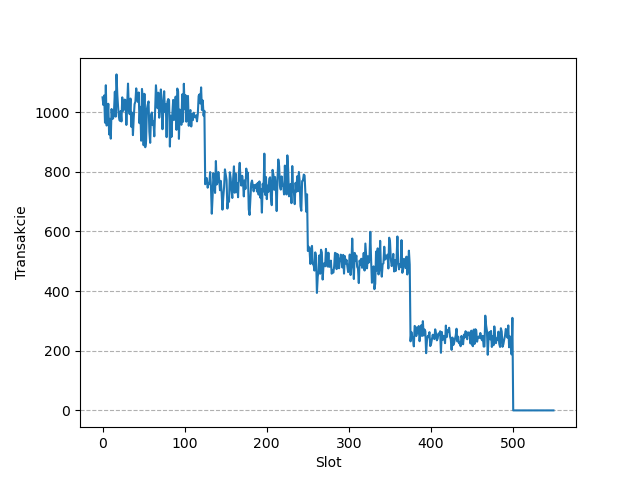
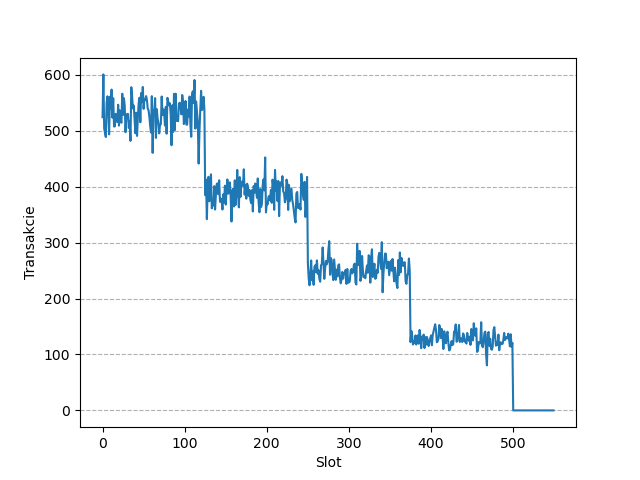
Fix harmony bug with uniformStakeDistribution

diff --git a/simulator-client/scenarios/harmony/scenario01.py b/simulator-client/scenarios/harmony/scenario01.py
@@ -35,6 +35,7 @@ class Scenario01(Scenario):
                 "lambda": token_lambda,
                 "ddosAttack": False,
                 "mongoServerAddress": self.mongoserver,
+                "uniformStakeDistribution": True
             }
             logger.logging.info(f'Start simulate Harmony with parameters: {json.dumps(parameters, sort_keys=False, indent=4)}')
             response = requests.post(self.harmony_endpoint, json=parameters)
@@ -57,4 +58,4 @@ class Scenario01(Scenario):
         sns.heatmap(self.spearman, vmin=-1, vmax=1)
         plt.xticks(rotation=70)
         fig.tight_layout()
-        self.save_plot('shard-correlation')
+        self.save_plot('harmony-scenario01')

diff --git a/simulator-client/scenarios/harmony/scenario02.py b/simulator-client/scenarios/harmony/scenario02.py
@@ -35,6 +35,7 @@ class Scenario02(Scenario):
                 "lambda": 600,
                 "ddosAttack": False,
                 "mongoServerAddress": self.mongoserver,
+                "uniformStakeDistribution": True
             }
             logger.logging.info(
                 f'Start simulate Harmony with parameters: {json.dumps(parameters, sort_keys=False, indent=4)}')
@@ -71,4 +72,4 @@ class Scenario02(Scenario):
                     verticalalignment='center',
                     transform=ax.transAxes)
             fig.tight_layout()
-            self.save_plot(f'byzantine{total_byzantine}-shard-kde')
+            self.save_plot(f'harmony-scenario02--byzantine{total_byzantine}')

diff --git a/simulator-client/scenarios/harmony/scenario03.py b/simulator-client/scenarios/harmony/scenario03.py
@@ -100,4 +100,4 @@ class Scenario03(Scenario):
         ax2.grid(axis="y", linestyle='--')
         plt.xticks(rotation=90)
         fig.tight_layout()
-        self.save_plot(f'tps-stats')
+        self.save_plot(f'harmony-scenario03')
